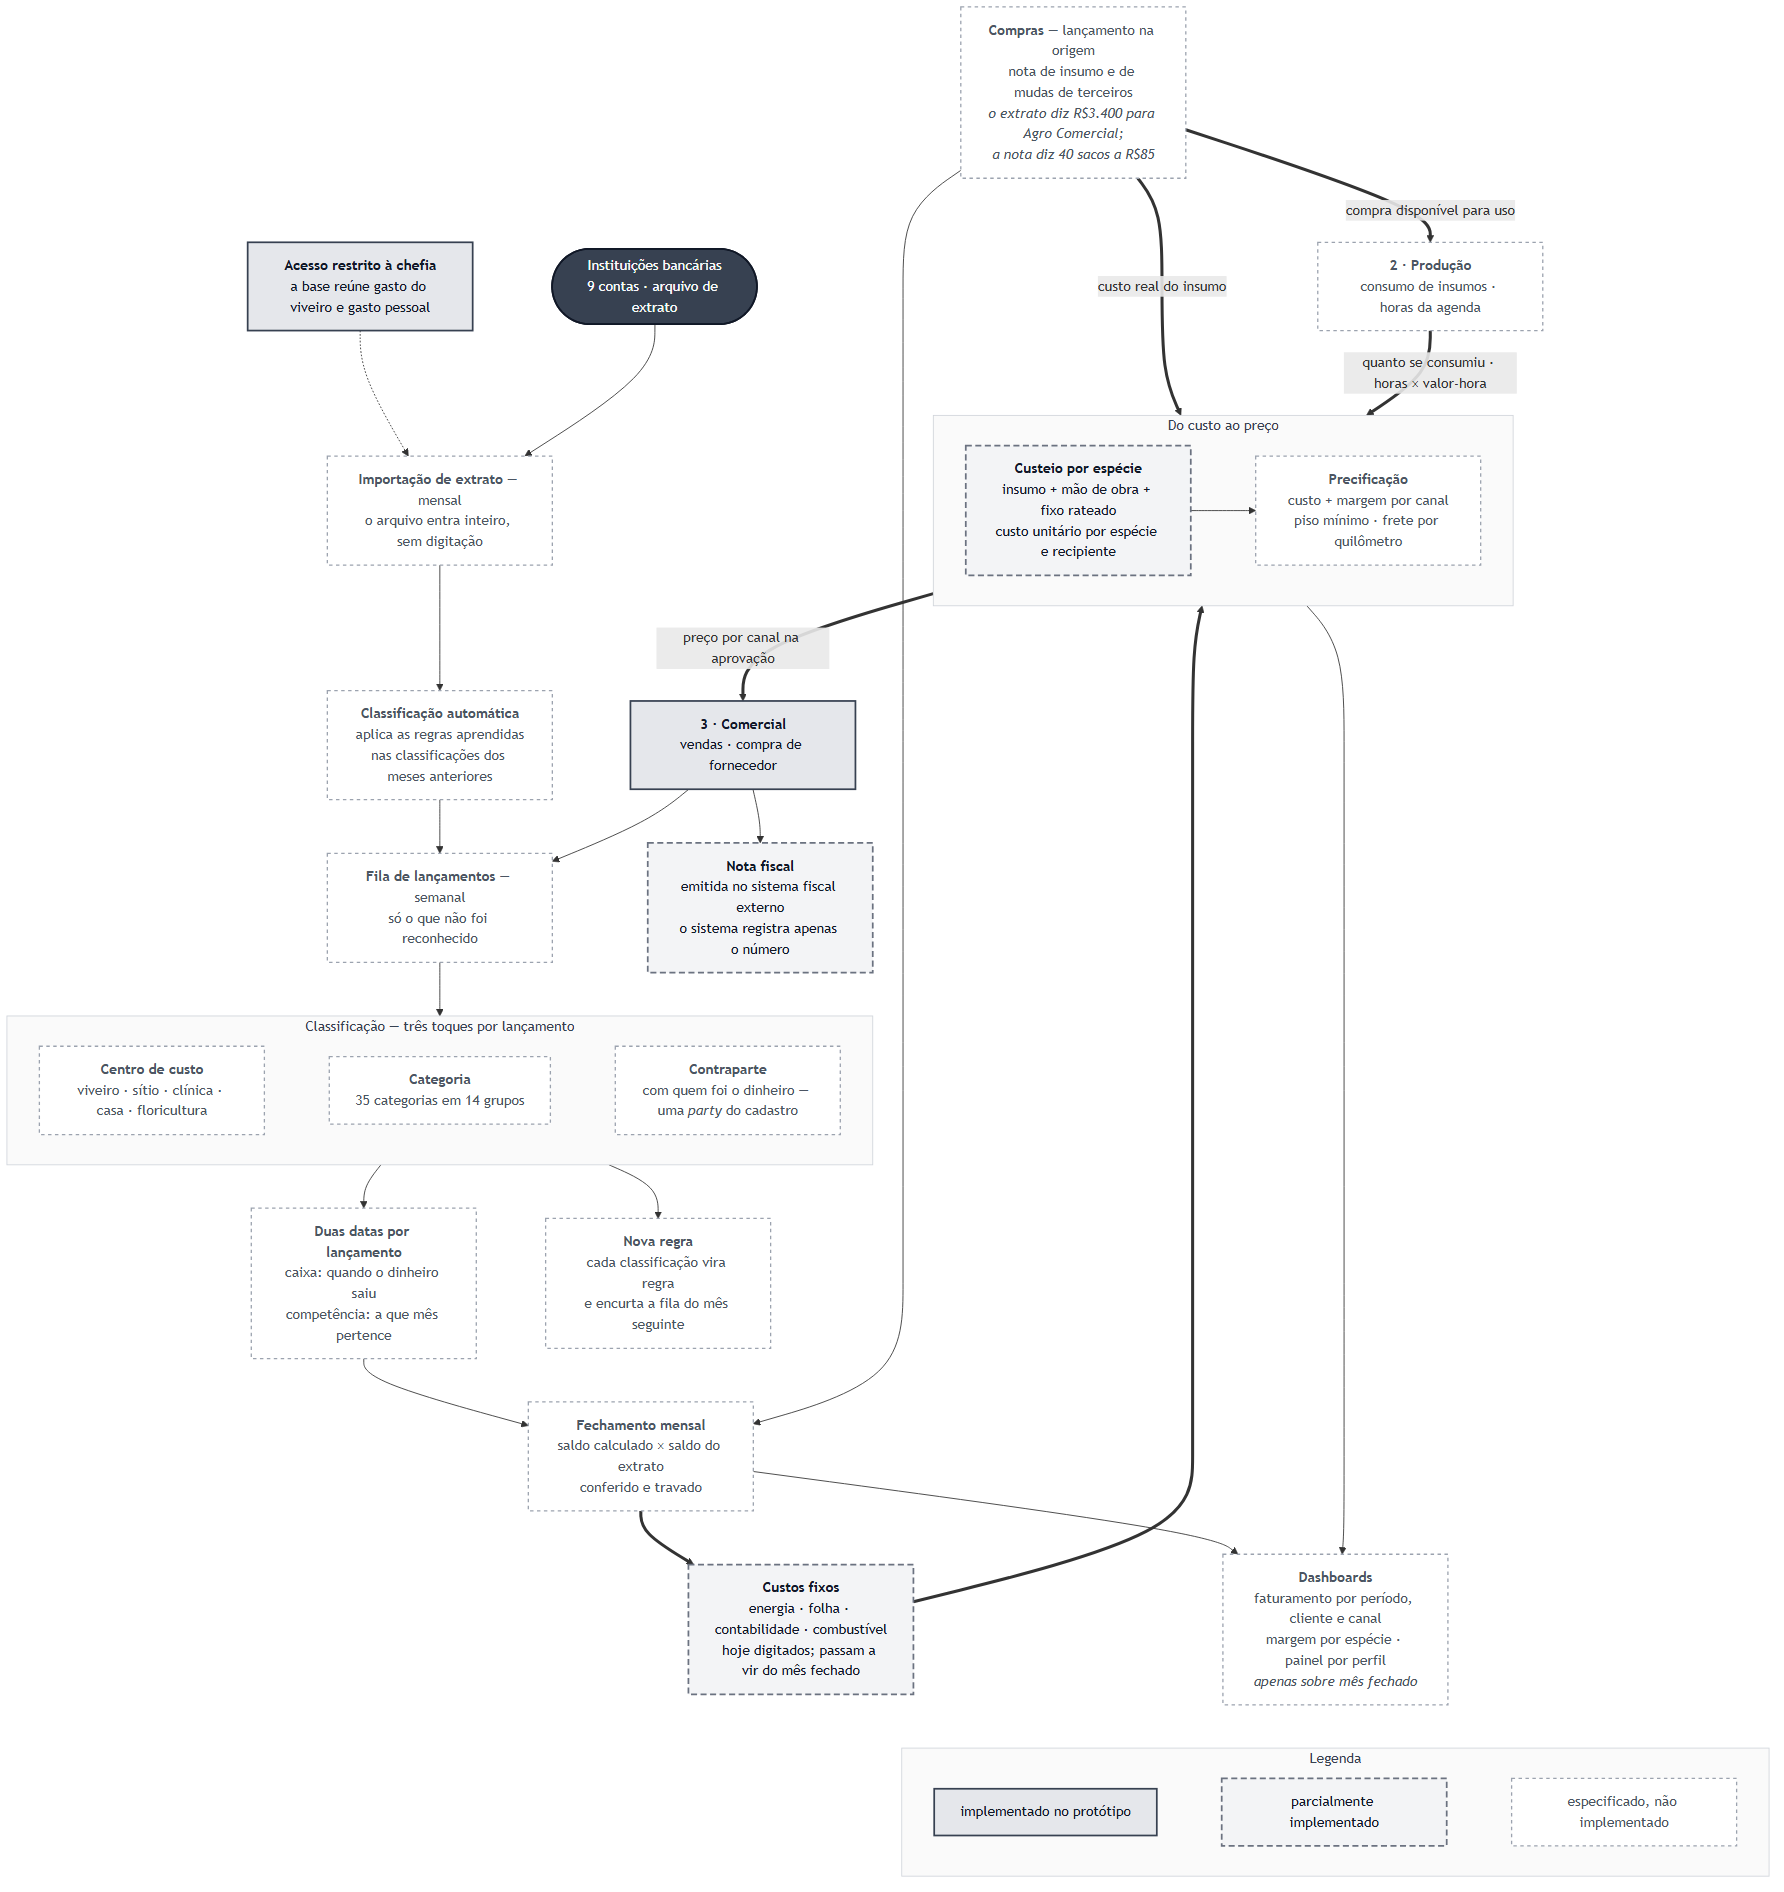
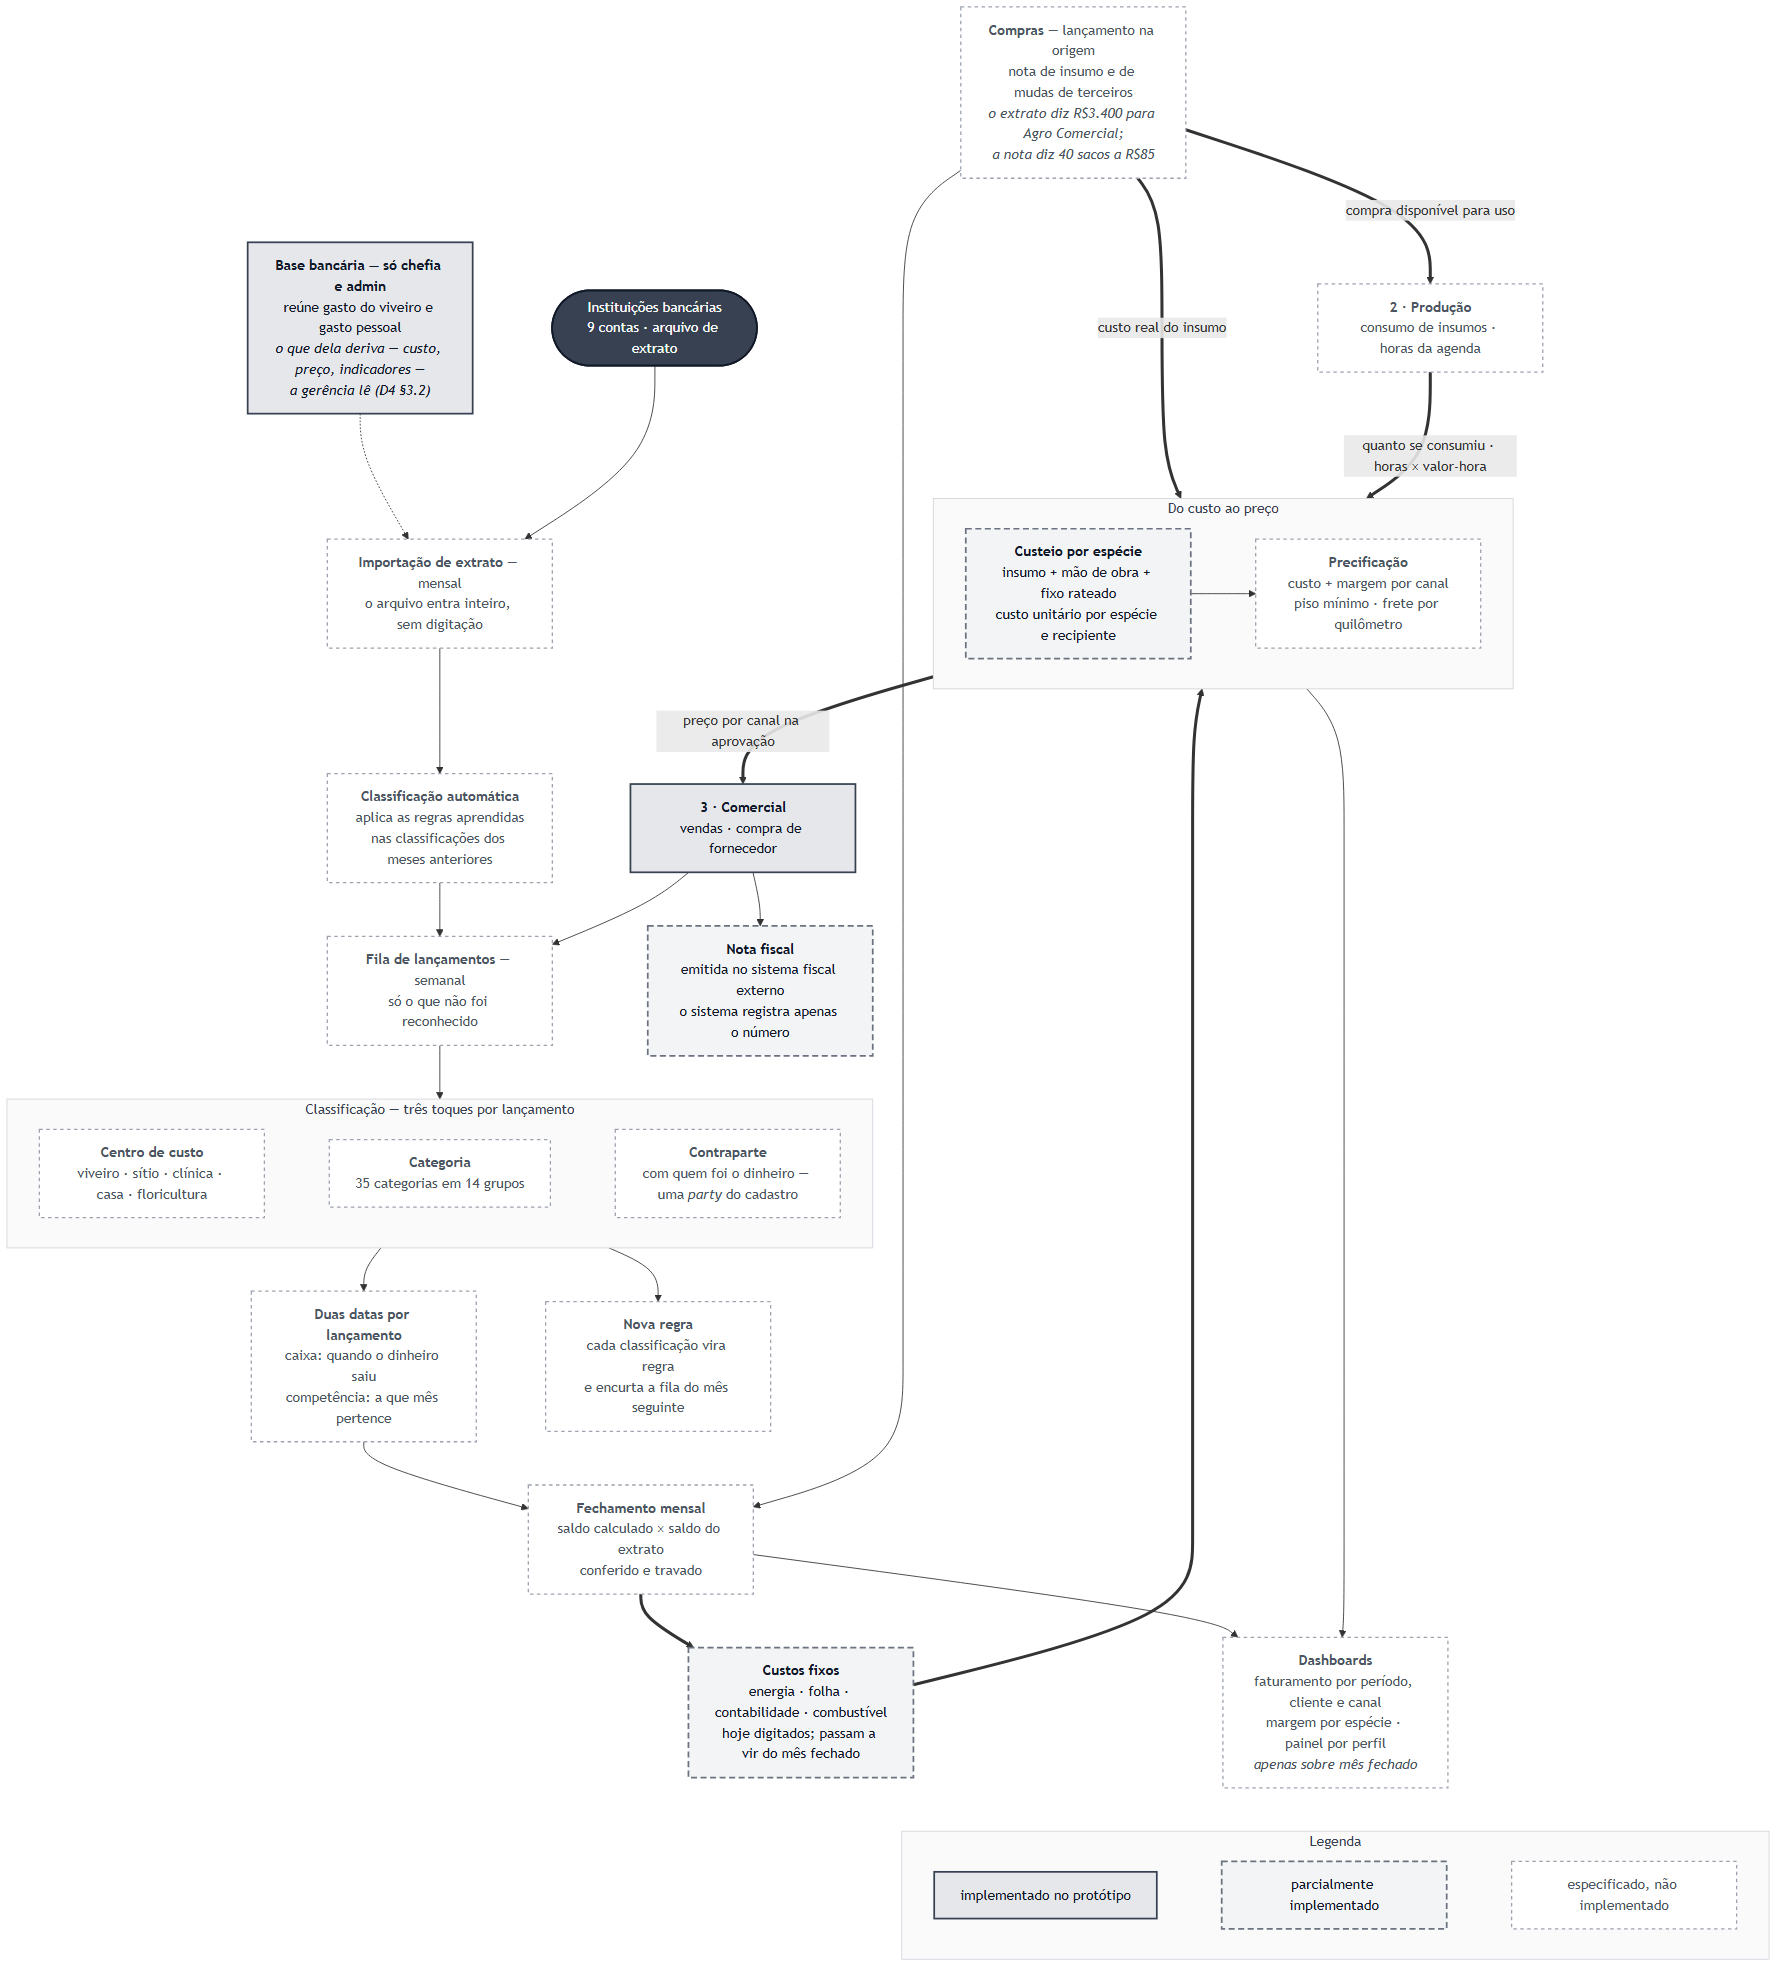
@ docs(rotinas): diagramas passam a dizer que a restricao e do recurso
Os dois nos que afirmavam "acesso restrito a chefia" — o FIN do mapa-sistema-v2
e o ACE do mapa-4-financeiro — contradiziam a regra reescrita em D4 §3.2 no
commit anterior: restringe-se o que expoe a base bancaria; custo, preco e
indicadores derivam dela e a gerencia le.

Os dois PNGs foram regerados. Cores, classDef e status ficaram intocados.

Junto: registrado no mapa que o `-w` do mermaid-cli varia por diagrama
(mapa-4-financeiro usa 1800, nao 1600) — regerar com o valor errado reescala a
figura e suja o diff.

@

diff --git a/docs/rotinas/00-mapa-de-rotinas.md b/docs/rotinas/00-mapa-de-rotinas.md
@@ -65,6 +65,12 @@ npx -y @mermaid-js/mermaid-cli -i docs/rotinas/img/mapa-sistema-v2.mmd \
   -o docs/rotinas/img/mapa-sistema-v2.png -w 1600 -b white
 ```
 
+⚠ **O `-w` não é o mesmo para todos os mapas** — cada um foi gerado com a largura que o seu
+conteúdo pedia, e o PNG sai com `-w` menos 16 px. Antes de regerar, confira a largura do PNG
+atual e use o `-w` correspondente (PNG de 1584 px ⇒ `-w 1600`; de 1784 px ⇒ `-w 1800`), senão
+a figura reescala e o diff fica com uma mudança que ninguém pediu. `mapa-4-financeiro` usa
+`-w 1800`.
+
 O PNG é a fonte para leitura e para o TCC; o `.mmd` é a fonte para edição.
 
 `img/mapa-sistema.mmd` é a versão anterior, de seis blocos, mantida só como registro do que
